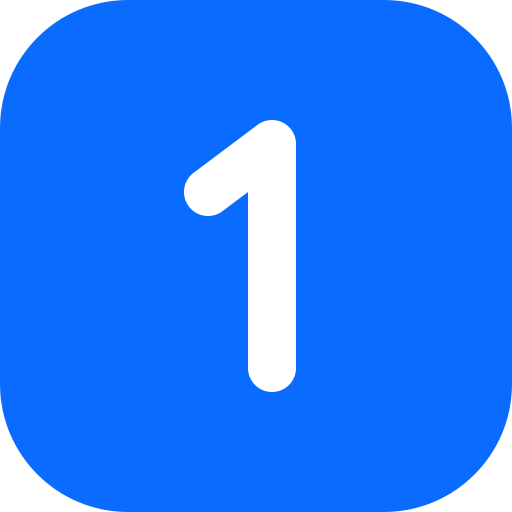
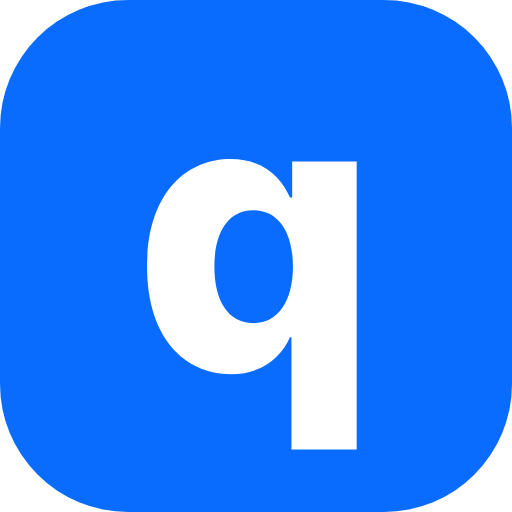
Add files via upload

Changed region(s): [[0.2812, 0.2188, 0.7188, 0.9062]]

diff --git a/assets/app.js b/assets/app.js
@@ -1,4 +1,4 @@
-/* one — football analytics. Vanilla JS + Supabase (read-only, RLS). */
+/* qara — football analytics. Vanilla JS + Supabase (read-only, RLS). */
 const SUPABASE_URL = "https://pvocjvvzkvzhckilhokx.supabase.co";
 const SUPABASE_KEY = "sb_publishable_amz1rV3zMWOZqazzODCDTw_MzIYN6pZ";
 const sb = window.supabase.createClient(SUPABASE_URL, SUPABASE_KEY, { auth: { persistSession: false, autoRefreshToken: false, detectSessionInUrl: false } }); /* data client: always anon, so RLS for "authenticated" never hides matches/leagues/players */
@@ -326,7 +326,7 @@ async function homeRight() {
   const since = new Date(Date.now() - 7 * 86400000).toISOString();
   run(sb.from("player_match_stats").select("rating,goals,assists,player_id,player:players(name),team:teams(name,short_name,crest_url),m:matches!inner(utc_date,competition_id)").gte("m.utc_date", since).not("rating", "is", null).order("rating", { ascending: false }).limit(6)).then((rows) => {
     const box = $("#potw"); if (!box) return;
-    box.innerHTML = `<div class="card-h">Лучшие игроки недели<span class="more muted">one рейтинг</span></div>` + (rows.length ? rows.map((r) => `<a class="lead" href="#/player/${r.player_id}">${avatar(r.player_id, r.player?.name)}<div class="who"><div>${esc(r.player?.name)}</div><small>${esc([r.team?.short_name || r.team?.name, COMP[r.m.competition_id]?.short, r.goals ? r.goals + " г" : "", r.assists ? r.assists + " а" : ""].filter(Boolean).join(" · "))}</small></div>${ratingChip(r.rating)}</a>`).join("") + `<div style="height:8px"></div>` : `<div class="empty-note">Нет сыгранных матчей за 7 дней.</div>`);
+    box.innerHTML = `<div class="card-h">Лучшие игроки недели<span class="more muted">qara рейтинг</span></div>` + (rows.length ? rows.map((r) => `<a class="lead" href="#/player/${r.player_id}">${avatar(r.player_id, r.player?.name)}<div class="who"><div>${esc(r.player?.name)}</div><small>${esc([r.team?.short_name || r.team?.name, COMP[r.m.competition_id]?.short, r.goals ? r.goals + " г" : "", r.assists ? r.assists + " а" : ""].filter(Boolean).join(" · "))}</small></div>${ratingChip(r.rating)}</a>`).join("") + `<div style="height:8px"></div>` : `<div class="empty-note">Нет сыгранных матчей за 7 дней.</div>`);
   });
   run(sb.from("v_player_season").select("player_id,name,team_short,crest_url,xg,goals,competition_id").order("xg", { ascending: false }).limit(6)).then((rows) => {
     const box = $("#xgLead"); if (!box) return;
@@ -363,7 +363,7 @@ async function leagueOverview(id, box) {
       ${live.length ? `<div class="card"><div class="card-h"><span class="live-dot"></span> Сейчас в эфире</div>${live.map((m) => matchRow(m)).join("")}<div style="height:8px"></div></div>` : ""}
       <div class="card"><div class="card-h">Таблица<a class="more" href="#/league/${id}/table">Подробно</a></div>${standingsTable(st, null, { compact: true })}</div>
       <div class="section-gap"></div>
-      <div class="leaders-grid">${leaders("goals", "Голы")}${leaders("assists", "Ассисты")}${leaders("xg", "Ожидаемые голы (xG)", 2)}${leaders("rating", "one рейтинг", 2, (r) => r.minutes >= Math.max(180, fin.length / Math.max(1, st.length) * 2 * 45))}</div>
+      <div class="leaders-grid">${leaders("goals", "Голы")}${leaders("assists", "Ассисты")}${leaders("xg", "Ожидаемые голы (xG)", 2)}${leaders("rating", "qara рейтинг", 2, (r) => r.minutes >= Math.max(180, fin.length / Math.max(1, st.length) * 2 * 45))}</div>
     </main>
     <aside class="side">
       <div class="card"><div class="card-h">Ближайшие матчи<a class="more" href="#/league/${id}/matches">Все</a></div>${upcoming.map((m) => matchRow(m, { showDate: true })).join("") || `<div class="empty-note">Нет запланированных матчей.</div>`}<div style="height:8px"></div></div>
@@ -664,8 +664,8 @@ async function viewPlayer(id) {
 }
 function pctMetrics(g) {
   const per = (k) => (r) => p90(+r[k], r.minutes);
-  const base = [["Голы /90", per("goals"), 2], ["xG /90", per("xg"), 2], ["Удары /90", per("shots"), 2], ["В створ /90", per("shots_on_target"), 2], ["Ассисты /90", per("assists"), 2], ["xA /90", per("xa"), 2], ["xG+xA /90", (r) => p90(+r.xg + +r.xa, r.minutes), 2], ["Точность ударов, %", (r) => (r.shots ? r.shots_on_target / r.shots * 100 : 0), 0], ["Фолы на нём /90", per("fouls_won"), 2], ["Фолы /90 (инв.)", (r) => -p90(+r.fouls, r.minutes), 2], ["one рейтинг", (r) => +r.rating || 0, 2]];
-  if (g === "GK") return [["Сейвы /90", per("saves"), 2], ["Пропущено /90 (инв.)", (r) => -p90(r.conceded, r.minutes), 2], ["% отражённых", (r) => (r.shots_faced ? (r.saves / r.shots_faced) * 100 : 0), 0], ["one рейтинг", (r) => +r.rating || 0, 2]];
+  const base = [["Голы /90", per("goals"), 2], ["xG /90", per("xg"), 2], ["Удары /90", per("shots"), 2], ["В створ /90", per("shots_on_target"), 2], ["Ассисты /90", per("assists"), 2], ["xA /90", per("xa"), 2], ["xG+xA /90", (r) => p90(+r.xg + +r.xa, r.minutes), 2], ["Точность ударов, %", (r) => (r.shots ? r.shots_on_target / r.shots * 100 : 0), 0], ["Фолы на нём /90", per("fouls_won"), 2], ["Фолы /90 (инв.)", (r) => -p90(+r.fouls, r.minutes), 2], ["qara рейтинг", (r) => +r.rating || 0, 2]];
+  if (g === "GK") return [["Сейвы /90", per("saves"), 2], ["Пропущено /90 (инв.)", (r) => -p90(r.conceded, r.minutes), 2], ["% отражённых", (r) => (r.shots_faced ? (r.saves / r.shots_faced) * 100 : 0), 0], ["qara рейтинг", (r) => +r.rating || 0, 2]];
   return base;
 }
 
@@ -992,7 +992,7 @@ async function viewStats(c, sKey) {
     { k: "fin", t: "Реализация: голы − xG", f: (r) => r.goals - r.xg, d: 2 },
     { k: "shots", t: "Удары", f: (r) => r.shots },
     { k: "sot", t: "Удары в створ", f: (r) => r.shots_on_target },
-    { k: "rating", t: "one рейтинг", f: (r) => +r.rating || 0, d: 2, filt: m90 },
+    { k: "rating", t: "qara рейтинг", f: (r) => +r.rating || 0, d: 2, filt: m90 },
     { k: "g90", t: "Голы за 90", f: (r) => p90(r.goals, r.minutes), d: 2, filt: m90 },
     { k: "xg90", t: "xG за 90", f: (r) => p90(+r.xg, r.minutes), d: 2, filt: m90 },
     { k: "yc", t: "Жёлтые карточки", f: (r) => r.yellow },
